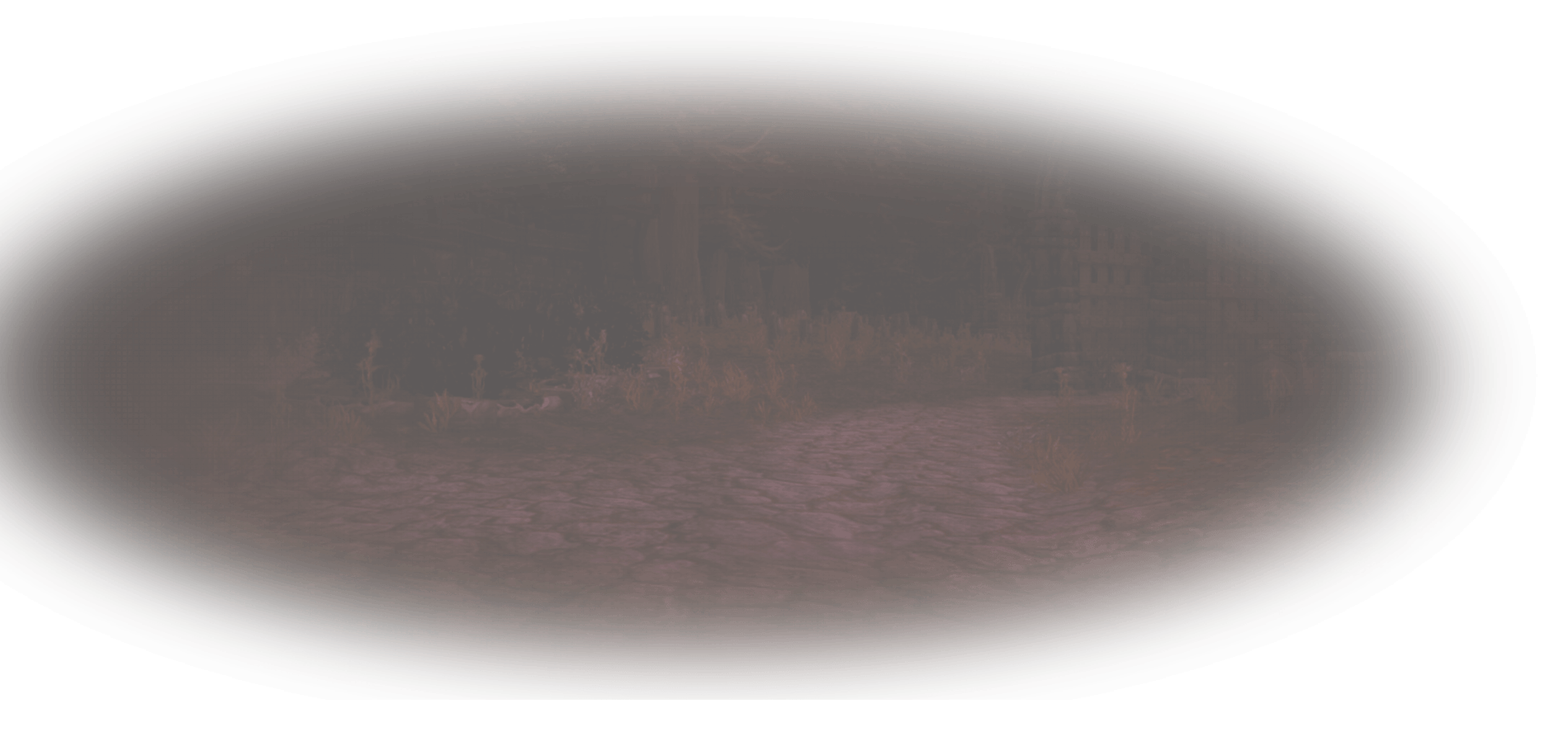
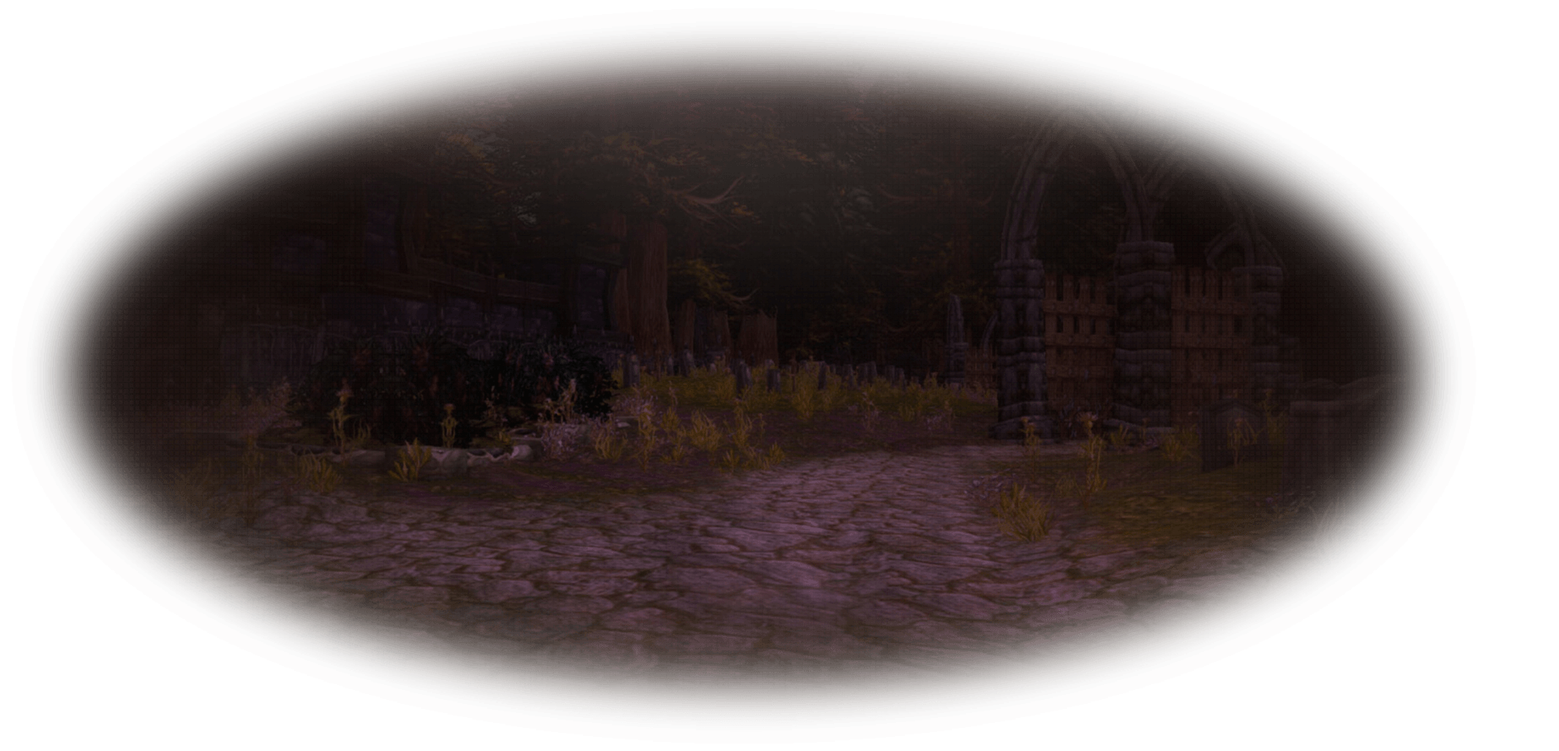
race backgrounds update

diff --git a/dist/index.html b/dist/index.html
@@ -1,6 +1,6 @@
 <!doctype html> <html class=no-js lang=zh-TW> <head> <meta charset=utf-8> <meta name=description content=快加入魔獸世界，進入一個充滿神話、魔法以及傳說冒險的世界。使用新手入門帳號使你可以在20級以下免費暢玩。現在正是加入魔獸世界的好機會。> <meta name=viewport content="width=device-width, initial-scale=1"> <title>《魔獸世界》新手網站</title> <meta property=og:locale content=zh_TW> <meta property=og:type content=website> <meta property=og:image content=http://media.blizzard.com/battle.net/logos/og-wow.png> <meta property=og:image content=http://media.blizzard.com/battle.net/logos/og-blizzard.png> <meta property=og:title content=《魔獸世界》新手網站> <meta property=og:description content=快加入魔獸世界，進入一個充滿神話、魔法以及傳說冒險的世界。使用新手入門帳號使你可以在20級以下免費暢玩。現在正是加入魔獸世界的好機會。>  <link rel=stylesheet href=styles/vendor.css> <link rel=stylesheet href=styles/main.css> <script src=scripts/vendor/modernizr.js></script> </head> <body> <!--[if lt IE 10]>
  <p class="browserupgrade">You are using an <strong>outdated</strong> browser. Please <a href="http://browsehappy.com/">upgrade your browser</a> to improve your experience.</p>
- <![endif]--> <div class=container> <div class=header> <figure class=nav-bg> <aside class="center alpha"> <ul class="nav nav-pills pull-right"> <li><a target=_blank href="http://tw.battle.net/wow/zh/shop/recruit-a-friend/">招兵買馬召集令</a></li> <li><a target=_blank href=https://tw.battle.net/shop/zh/product/world-of-warcraft-service-character-boost-asia>角色直升90級</a></li> <li><a target=_blank href=https://tw.battle.net/account/creation/tos.html>立即註冊</a></li> <li><a target=_blank class="download btn" href="http://tw.battle.net/zh/app/">立即下載</a></li> <li><a target=_blank class=icon href=https://www.facebook.com/WarcraftZHTW><i class="fa fa-facebook-official"></i></a></li> <li><a target=_blank class=icon href="https://www.youtube.com/watch?v=INaH20Fo1wg&amp;list=PL61C535E604B8BA4A"><i class="fa fa-youtube-play"></i></a></li> <li><a class="video-control icon" href=javascript:><i class="glyphicon glyphicon-pause"></i></a></li> <li><a class="volume-control icon" href=javascript:><i class="glyphicon glyphicon-volume-down"></i></a></li> </ul> <h1 class=text-muted><a href="http://tw.battle.net/wow/zh/" target=_blank><img alt=魔獸世界 src=images/logo.png></a></h1> </aside> </figure> </div> <section id=fullpage> <section id=visual class=section> <img class=video-preview src=images/kv.png> <section class=kv-container> <video class=video src=fonts/wow.mp4 width=100% height=60% poster=images/kv.png preload=true> <source type=video/mp4 src=fonts/wow.mp4> <source type=video/webm src=fonts/wow.webm> <source type=video/ogg src=fonts/wow.ogv> <object width=100% height=100% type=application/x-shockwave-flash data=fonts/flashmediaelement.swf> <param name=movie value=flashmediaelement.swf> <param name=flashvars value="controls=false&amp;poster=images/kv.png&amp;file=fonts/wow.mp4"> <img src=images/kv.png width=100% height=100% title="No video playback capabilities"> </object> </video> <figure class=video-overlay></figure> <aside class="center delta"> <h3>現在立即加入 《魔獸世界》 20 級以下 免費暢玩 <a class=download-button href="http://tw.battle.net/zh/app/" target=_blank><img alt=馬上下載 src=images/download-button.png></a></h3> </aside> </section> <img class=horizon src=images/horizon-left.png alt="horizon line"> </section> <section id=race class=section> <figure class=bg-mask></figure> <img class=horizon src=images/horizon-right.png alt="horizon line"> <img src=images/race/worgen-bg.png class=hide> <img src=images/race/draenei-bg.png class=hide> <img src=images/race/dwarf-bg.png class=hide> <img src=images/race/gnome-bg.png class=hide> <img src=images/race/human-bg.png class=hide> <img src=images/race/night-elf-bg.png class=hide> <img src=images/race/pandaria-bg.png class=hide> <img src=images/race/goblin-bg.png class=hide> <img src=images/race/blood-elf-bg.png class=hide> <img src=images/race/orc-bg.png class=hide> <img src=images/race/tauren-bg.png class=hide> <img src=images/race/troll-bg.png class=hide> <img src=images/race/undead-bg.png class=hide> <aside class=center> <aside class=section-title> <h3>種族介紹<p>特殊種族外貌 任你自由選擇</p></h3> </aside> <nav class="nav nav-alliance"> <ul> <li class="worgen active" data-race=worgen> <a href=javascript:><i></i></a> </li> <li class=draenei data-race=draenei> <a href=javascript:><i></i></a> </li> <li class=dwarf data-race=dwarf> <a href=javascript:><i></i></a> </li> <li class=gnome data-race=gnome> <a href=javascript:><i></i></a> </li> <li class=human data-race=human> <a href=javascript:><i></i></a> </li> <li class=night-elf data-race=night-elf> <a href=javascript:><i></i></a> </li> <li class=pandaria data-race=pandaria> <a href=javascript:><i></i></a> </li> </ul> </nav> <nav class="nav nav-horde"> <ul> <li class=goblin data-race=goblin> <a href=javascript:><i></i></a> </li> <li class=blood-elf data-race=blood-elf> <a href=javascript:><i></i></a> </li> <li class=orc data-race=orc> <a href=javascript:><i></i></a> </li> <li class=tauren data-race=tauren> <a href=javascript:><i></i></a> </li> <li class=troll data-race=troll> <a href=javascript:><i></i></a> </li> <li class=undead data-race=undead> <a href=javascript:><i></i></a> </li> <li class=pandaria data-race=horde-pandaria> <a href=javascript:><i></i></a> </li> </ul> </nav> <article> <ul> <li class="active worgen"> <aside> <figure> <img src=images/race/worgen.png alt=worgen> <h4> 狼人<sub class=alliance><i class=alliance-icon></i>聯盟</sub> <p>吉爾尼斯高牆後深受詛咒的人類</p></h4> </figure> <p class=race-description> 在葛雷邁恩之牆背後，難以想像的可怕詛咒早已在吉爾尼斯這個被孤立的人類國度中蔓延，平民一個個蛻變成了嗜血殘暴的狼人。 </p> </aside> </li> <li class=draenei> <aside> <figure> <img src=images/race/draenei.png alt=draenei> <h4> 德萊尼<sub class=alliance><i class=alliance-icon></i>聯盟</sub> <p>來自遙遠阿古斯世界的逃亡者</p></h4> </figure> <p class=race-description> 墮落泰坦－薩格拉斯早已認定這支種族是助祂毀滅一切的要素，最後成功讓埃雷達爾的兩位領導者效忠；不願沉淪的智者費倫，只好帶著其他族人流亡他鄉。 </p> </aside> </li> <li class=dwarf> <aside> <figure> <img src=images/race/dwarf.png alt=dwarf> <h4> 矮人<sub class=alliance><i class=alliance-icon></i>聯盟</sub> <p>從石頭蹦出來的古老種族 </p></h4> </figure> <p class=race-description> 勇敢的矮人是土靈的後裔。土靈是有生命的石頭生物，但得了稱做血肉詛咒的怪病，石頭外皮變成了柔軟的皮膚，於是他們自稱矮人，在卡茲莫丹雪峰中開拓出偉大的城市 - 鐵爐堡。 </p> </aside> </li> <li class=gnome> <aside> <figure> <img src=images/race/gnome.png alt=gnome> <h4> 地精<sub class=alliance><i class=alliance-icon></i>聯盟</sub> <p>不按牌理出牌的天才發明家</p></h4> </figure> <p class=race-description> 聰明、堅毅、卻怪里怪氣的地精，是有著樂天性格的機械工、工程師與技師。雖然是一支矮小的族群，他們所運用的智慧和雄心壯志令其他種族黯然失色。 </p> </aside> </li> <li class=human> <aside> <figure> <img src=images/race/human.png alt=human> <h4> 人類<sub class=alliance><i class=alliance-icon></i>聯盟</sub> <p>北裂境半巨人戰士的後裔 </p></h4> </figure> <p class=race-description> 謠傳人類是北裂境維酷人的後裔。當食人妖帝國崛起，原本散居的人類部族不得不統一聯手，力抗強敵；阿拉索王國及其首都 - 激流城邦，便因此建立。 </p> </aside> </li> <li class=night-elf> <aside> <figure> <img src=images/race/night-elf.png alt=night-elf> <h4> 夜精靈<sub class=alliance><i class=alliance-icon></i>聯盟</sub> <p>主導艾澤拉斯命運的關鍵 </p></h4> </figure> <p class=race-description> 在一萬多年前的古老戰役中，夜精靈擊退燃燒軍團的入侵。當燃燒軍團再次來襲，一場大戰更讓夜精靈付出慘痛代價，即便最後戰勝，夜精靈的世界已永遠改變。 </p> </aside> </li> <li class=pandaria> <aside> <figure> <img src=images/race/pandaria.png alt=pandaria> <h4> 熊貓人<sub class=alliance><i class=alliance-icon></i>聯盟</sub> <p>籠罩在傳說中，謎一般的神秘種族 </p></h4> </figure> <p class=race-description> 熊貓人早在人類帝國形成前，就已建立起繁榮數千年的帝國。罕為人知的神祕熊貓人，對其他種族而言一直是個謎團。 </p> </aside> </li> <li class=goblin> <aside> <figure> <img src=images/race/goblin.png alt=goblin> <h4> 哥布林<sub class=horde><i class=horde-icon></i>部落</sub> <p>精明狡詐，左右逢源的一流貿易商 </p></h4> </figure> <p class=race-description> 原是凱贊島食人妖的奴隸，哥布林被迫在火山坑道挖掘卡迦邁礦石供巫毒儀式使用，但卡迦邁礦石也對這些奴隸產生奇效，讓哥布林一個個具備前所未有的聰明狡詐與驚人智力。 </p> </aside> </li> <li class=blood-elf> <aside> <figure> <img src=images/race/blood-elf.png alt=blood-elf> <h4> 血精靈<sub class=horde><i class=horde-icon></i>部落</sub> <p>沉醉於秘法力量的高貴精靈 </p></h4> </figure> <p class=race-description> 當高等精靈的魔法之泉－太陽之井遭受汙染後，王子凱爾薩斯‧逐日者忍痛將其摧毀，並命名僅存的族人為血精靈，一同遠走外域尋求解決之道。 </p> </aside> </li> <li class=orc> <aside> <figure> <img src=images/race/orc.png alt=orc> <h4> 獸人<sub class=horde><i class=horde-icon></i>部落</sub> <p>被惡魔之血影響的外域異軍</p></h4> </figure> <p class=race-description> 為了奴役這個強大的民族，燃燒軍團的惡魔領主基爾加丹承諾賦予力量，引誘大部份獸人酋長喝下惡魔之血；沒想到這讓獸人棕色皮膚轉綠，更讓他們受到控制，家園也走向枯萎和死亡… </p> </aside> </li> <li class=tauren> <aside> <figure> <img src=images/race/tauren.png alt=tauren> <h4> 牛頭人<sub class=horde><i class=horde-icon></i>部落</sub> <p>散居貧瘠之地的遊牧民族 </p></h4> </figure> <p class=race-description> 卡林多的牛頭人愛好和平，在大地之母的指示下，致力維護大自然的平衡。雖然分裂成不同部族，但面對敵人時卻團結一致。牛頭人大酋長凱恩．血蹄某次與獸人部落偶遇，自此改變了牛頭人的命運。 </p> </aside> </li> <li class=troll> <aside> <figure> <img src=images/race/troll.png alt=troll> <h4> 食人妖<sub class=horde><i class=horde-icon></i>部落</sub> <p>崇尚黑暗儀式的部族 </p></h4> </figure> <p class=race-description> 以殘忍和黑暗的神秘宗教而惡名昭彰，艾澤拉斯的食人妖向來對其他種族心懷恨意。當部落大酋長索爾抵達食人妖南海島時，暗矛食人妖放棄成見，與索爾一同合作，最後成為部落的一員。 </p> </aside> </li> <li class=undead> <aside> <figure> <img src=images/race/undead.png alt=undead> <h4> 不死族<sub class=horde><i class=horde-icon></i>部落</sub> <p>擺脫巫妖王束縛的亡者 </p></h4> </figure> <p class=race-description> 巫妖王在羅德隆屠城後，多數人死後成為天譴軍的爪牙，但部分不死族最終叛逃，並在黑暗女王-希瓦娜斯‧風行者麾下集結；他們自稱「被遺忘者」，更在羅德隆廢墟下建立首都－幽暗城。 </p> </aside> </li> <li class=horde-pandaria> <aside> <figure> <img src=images/race/pandaria.png alt=pandaria> <h4> 熊貓人<sub class=horde><i class=horde-icon></i>部落</sub> <p>籠罩在傳說中，謎一般的神秘種族 </p></h4> </figure> <p class=race-description> 熊貓人早在人類帝國形成前，就已建立起繁榮數千年的帝國。罕為人知的神祕熊貓人，對其他種族而言一直是個謎團。 </p> </aside> </li> </ul> </article> </aside> </section> <section id=classes class=section> <img class=horizon src=images/horizon-left.png alt="horizon line"> <aside class=center> <aside class=section-title> <aside class=section-title> <h3>職業介紹<p>各種獨特職業 挑戰各種無限可能 </p></h3> </aside> <nav class="nav nav-classes"> <ul> <li class="worrior active" data-classes=worrior> <a href=javascript:><i></i>戰士</a><b></b> </li> <li class=warlock data-classes=warlock> <a href=javascript:><i></i>術士</a><b></b> </li> <li class=shaman data-classes=shaman> <a href=javascript:><i></i>薩滿</a><b></b> </li> <li class=rogue data-classes=rogue> <a href=javascript:><i></i>盜賊</a><b></b> </li> <li class=priest data-classes=priest> <a href=javascript:><i></i>牧師</a><b></b> </li> <li class=monk data-classes=monk> <a href=javascript:><i></i>武僧</a><b></b> </li> <li class=paladin data-classes=paladin> <a href=javascript:><i></i>聖騎士</a><b></b> </li> <li class=mage data-classes=mage> <a href=javascript:><i></i>法師</a><b></b> </li> <li class=hunter data-classes=hunter> <a href=javascript:><i></i>獵人</a><b></b> </li> <li class=druid data-classes=druid> <a href=javascript:><i></i>德魯伊</a><b></b> </li> <li class=death-knight data-classes=death-knight> <a href=javascript:><i></i>死亡騎士</a><b></b> </li> </ul> </nav> <article> <ul> <li class="active worrior"> <aside> <figure> <img src=images/classes/worrior.png alt=worrior> <h4> 戰士 <p>以肉身作為團隊護盾的戰爭之王 </p> <p class=classes-description> 以盾牌防守封鎖敵人，或是以致命武器近身攻擊，戰士集力量、統御力和對武器護甲的專精於一身。 </p> </h4> </figure> </aside> </li> <li class=warlock> <aside> <figure> <img src=images/classes/warlock.png alt=warlock> <h4> 術士 <p>奴役恐怖惡魔的施法者</p> <p class=classes-description> 深知惡魔力量的術士能用烈焰燃燒遠方的敵人，或以腐蝕疾病和竊取生命力的詛咒來加以折磨。 </p> </h4> </figure> </aside> </li> <li class=shaman> <aside> <figure> <img src=images/classes/shaman.png alt=shaman> <h4> 薩滿 <p>協調元素力量作戰的行醫者</p> <p class=classes-description> 足智多謀的薩滿身懷絕技，近距或遠程攻擊樣樣精通，更會善用元素圖騰來協助團隊取得勝利。 </p> </h4> </figure> </aside> </li> <li class=rogue> <aside> <figure> <img src=images/classes/rogue.png alt=rogue> <h4> 盜賊 <p>隱匿的高手 直取要害的刺客</p> <p class=classes-description> 潛藏在暗處的致命刺客，總是在獵物背後潛行，直取要害，盜賊在受害者倒地之前，早已消失無影。 </p> </h4> </figure> </aside> </li> <li class=priest> <aside> <figure> <img src=images/classes/priest.png alt=priest> <h4> 牧師 <p>以堅定不移的信仰治療眾生的聖人</p> <p class=classes-description> 為其信仰獻身，牧師遠離神殿的範圍與聖地的撫慰，藉由治療群眾來表達他們的堅定信仰。 </p> </h4> </figure> </aside> </li> <li class=monk> <aside> <figure> <img src=images/classes/monk.png alt=monk> <h4> 武僧 <p>以酒馭氣 攻防合一的武功大師</p> <p class=classes-description> 武僧運用體內的真氣來強化力量，甚至在治療同伴的同時傷害他們身邊的敵人。 </p> </h4> </figure> </aside> </li> <li class=paladin> <aside> <figure> <img src=images/classes/paladin.png alt=paladin> <h4> 聖騎士 <p>引導聖光驅散黑暗的高貴勇者</p> <p class=classes-description> 聖光的庇佑讓這些穿戴重裝甲、堅信正義的聖騎士傷口快速痊癒，甚至能復活死者。 </p> </h4> </figure> </aside> </li> <li class=mage> <aside> <figure> <img src=images/classes/mage.png alt=mage> <h4> 法師 <p>天賦異稟 掌握秘法精髓的施法者</p> <p class=classes-description> 雖然不善近戰，有智慧的法師會謹慎運用強大破壞力的法術，在敵人靠近之前將之擊倒。 </p> </h4> </figure> </aside> </li> <li class=hunter> <aside> <figure> <img src=images/classes/hunter.png alt=hunter> <h4> 獵人 <p>召喚猛獸作戰的神準射手</p> <p class=classes-description> 對自然環境瞭若指掌，獵人不僅能從容在樹林間穿梭，也能在敵人必經之路上埋伏陷阱，出奇制勝。 </p> </h4> </figure> </aside> </li> <li class=druid> <aside> <figure> <img src=images/classes/druid.png alt=druid> <h4> 德魯伊 <p>平衡大自然原生能量的生靈守護者</p> <p class=classes-description> 德魯伊能針對不同情勢變換形態來進行治療、近身防禦或輸出大量傷害，而且每種變形都將有獨特效果。 </p> </h4> </figure> </aside> </li> <li class=death-knight> <aside> <figure> <img src=images/classes/death-knight.png alt=death-knight> <h4> 死亡騎士 <p>操縱符文力量的不死英靈</p> <p class=classes-description> 擅長近距離的與敵人交戰，死亡騎士運用符文和黑魔法增強他們的武器，使敵人無法招架並用邪惡力量加以重創。 </p> </h4> </figure> </aside> </li> </ul> </article> </aside> </aside> </section> <section id=features class=section> <aside class=center> <aside class=section-title> <h3>遊戲特色 <p>豐富遊戲內容 體驗無窮樂趣</p></h3> </aside> </aside> <article> <aside class=center> <p class=feature-description> 艾澤拉斯大陸到處都有神秘場所、潛伏的威脅和一觸即發的衝突。雖然雙方陣營在爭奪資源的過程中傷亡難免，無盡的鬥爭也將帶給你無數贏得榮耀的機會。無論在正規戰場或在野外與敵方單挑，你都將獲得更多實戰經驗，並換取更高等的裝備。除了和別人打個你死我活，你也可以在農地或自己的堡壘中輕鬆一下，或是用戰寵與好友來場友誼賽。不管你想怎麼玩，魔獸世界都會給你最棒的遊戲體驗。 </p> </aside> </article> </section> <section id=footer class=section> <section class=footer> <aside class=center> <a target=_blank href="http://tw.battle.net/wow/zh/"><img src=images/blizzard.png alt=blizzard></a> <p class=terms>© 2015 美商暴雪娛樂股份有限公司（Blizzard Entertainment, Inc.）版權所有。魔獸世界、魔獸爭霸、Battle.net、魔獸及Blizzard Entertainment均為美商暴雪娛樂股份有限公司 (Blizzard Entertainment, Inc.) 在美國和 / 或其他國家的商標或註冊商標。其他所有在此提及的商標皆為各持有者之財產。需註冊 Battle.net 帳號，您可前往 <a href="http://tw.battle.net/zh/" target=_blank>tw.battle.net</a> 免費進行註冊。</p> <a target=_blank href=http://www.gamerating.org.tw/gsgi_way.php><img src=images/pg-15.png class=pg-15></a> </aside> <img class=horizon src=images/horizon-right.png alt="horizon line"> </section> </section> </section> </div>  <script>
+ <![endif]--> <div class=container> <div class=header> <figure class=nav-bg> <aside class="center alpha"> <ul class="nav nav-pills pull-right"> <li><a target=_blank href="http://tw.battle.net/wow/zh/shop/recruit-a-friend/">招兵買馬召集令</a></li> <li><a target=_blank href=https://tw.battle.net/shop/zh/product/world-of-warcraft-service-character-boost-asia>角色直升90級</a></li> <li><a target=_blank href=https://tw.battle.net/account/creation/tos.html>立即註冊</a></li> <li><a target=_blank class="download btn" href="http://tw.battle.net/zh/app/">立即下載</a></li> <li><a target=_blank class=icon href=https://www.facebook.com/WarcraftZHTW><i class="fa fa-facebook-official"></i></a></li> <li><a target=_blank class=icon href="https://www.youtube.com/watch?v=INaH20Fo1wg&amp;list=PL61C535E604B8BA4A"><i class="fa fa-youtube-play"></i></a></li> <li><a class="video-control icon" href=javascript:><i class="glyphicon glyphicon-pause"></i></a></li> <li><a class="volume-control icon" href=javascript:><i class="glyphicon glyphicon-volume-down"></i></a></li> </ul> <h1 class=text-muted><a href="http://tw.battle.net/wow/zh/" target=_blank><img alt=魔獸世界 src=images/logo.png></a></h1> </aside> </figure> </div> <section id=fullpage> <section id=visual class=section> <img class=video-preview src=images/kv.png> <section class=kv-container> <video class=video src=fonts/wow.mp4 width=100% height=60% poster=images/kv.png preload=true> <source type=video/mp4 src=fonts/wow.mp4> <source type=video/webm src=fonts/wow.webm> <source type=video/ogg src=fonts/wow.ogv> <object width=100% height=100% type=application/x-shockwave-flash data=fonts/flashmediaelement.swf> <param name=movie value=flashmediaelement.swf> <param name=flashvars value="controls=false&amp;poster=images/kv.png&amp;file=fonts/wow.mp4"> <img src=images/kv.png width=100% height=100% title="No video playback capabilities"> </object> </video> <figure class=video-overlay></figure> <aside class="center delta"> <h3>現在立即加入 《魔獸世界》 20 級以下 免費暢玩 <a class=download-button href="http://tw.battle.net/zh/app/" target=_blank><img alt=馬上下載 src=images/download-button.png></a></h3> </aside> </section> </section> <section id=race class=section> <figure class=bg-mask></figure> <img class=horizon src=images/horizon-right.png alt="horizon line"> <img src=images/race/worgen-bg.png class=hide> <img src=images/race/draenei-bg.png class=hide> <img src=images/race/dwarf-bg.png class=hide> <img src=images/race/gnome-bg.png class=hide> <img src=images/race/human-bg.png class=hide> <img src=images/race/night-elf-bg.png class=hide> <img src=images/race/pandaria-bg.png class=hide> <img src=images/race/goblin-bg.png class=hide> <img src=images/race/blood-elf-bg.png class=hide> <img src=images/race/orc-bg.png class=hide> <img src=images/race/tauren-bg.png class=hide> <img src=images/race/troll-bg.png class=hide> <img src=images/race/undead-bg.png class=hide> <aside class=center> <aside class=section-title> <h3>種族介紹<p>特殊種族外貌 任你自由選擇</p></h3> </aside> <nav class="nav nav-alliance"> <ul> <li class="worgen active" data-race=worgen> <a href=javascript:><i></i></a> </li> <li class=draenei data-race=draenei> <a href=javascript:><i></i></a> </li> <li class=dwarf data-race=dwarf> <a href=javascript:><i></i></a> </li> <li class=gnome data-race=gnome> <a href=javascript:><i></i></a> </li> <li class=human data-race=human> <a href=javascript:><i></i></a> </li> <li class=night-elf data-race=night-elf> <a href=javascript:><i></i></a> </li> <li class=pandaria data-race=pandaria> <a href=javascript:><i></i></a> </li> </ul> </nav> <nav class="nav nav-horde"> <ul> <li class=goblin data-race=goblin> <a href=javascript:><i></i></a> </li> <li class=blood-elf data-race=blood-elf> <a href=javascript:><i></i></a> </li> <li class=orc data-race=orc> <a href=javascript:><i></i></a> </li> <li class=tauren data-race=tauren> <a href=javascript:><i></i></a> </li> <li class=troll data-race=troll> <a href=javascript:><i></i></a> </li> <li class=undead data-race=undead> <a href=javascript:><i></i></a> </li> <li class=pandaria data-race=horde-pandaria> <a href=javascript:><i></i></a> </li> </ul> </nav> <article> <ul> <li class="active worgen"> <aside> <figure> <img src=images/race/worgen.png alt=worgen> <h4> 狼人<sub class=alliance><i class=alliance-icon></i>聯盟</sub> <p>吉爾尼斯高牆後深受詛咒的人類</p></h4> </figure> <p class=race-description> 在葛雷邁恩之牆背後，難以想像的可怕詛咒早已在吉爾尼斯這個被孤立的人類國度中蔓延，平民一個個蛻變成了嗜血殘暴的狼人。 </p> </aside> </li> <li class=draenei> <aside> <figure> <img src=images/race/draenei.png alt=draenei> <h4> 德萊尼<sub class=alliance><i class=alliance-icon></i>聯盟</sub> <p>來自遙遠阿古斯世界的逃亡者</p></h4> </figure> <p class=race-description> 墮落泰坦－薩格拉斯早已認定這支種族是助祂毀滅一切的要素，最後成功讓埃雷達爾的兩位領導者效忠；不願沉淪的智者費倫，只好帶著其他族人流亡他鄉。 </p> </aside> </li> <li class=dwarf> <aside> <figure> <img src=images/race/dwarf.png alt=dwarf> <h4> 矮人<sub class=alliance><i class=alliance-icon></i>聯盟</sub> <p>從石頭蹦出來的古老種族 </p></h4> </figure> <p class=race-description> 勇敢的矮人是土靈的後裔。土靈是有生命的石頭生物，但得了稱做血肉詛咒的怪病，石頭外皮變成了柔軟的皮膚，於是他們自稱矮人，在卡茲莫丹雪峰中開拓出偉大的城市 - 鐵爐堡。 </p> </aside> </li> <li class=gnome> <aside> <figure> <img src=images/race/gnome.png alt=gnome> <h4> 地精<sub class=alliance><i class=alliance-icon></i>聯盟</sub> <p>不按牌理出牌的天才發明家</p></h4> </figure> <p class=race-description> 聰明、堅毅、卻怪里怪氣的地精，是有著樂天性格的機械工、工程師與技師。雖然是一支矮小的族群，他們所運用的智慧和雄心壯志令其他種族黯然失色。 </p> </aside> </li> <li class=human> <aside> <figure> <img src=images/race/human.png alt=human> <h4> 人類<sub class=alliance><i class=alliance-icon></i>聯盟</sub> <p>北裂境半巨人戰士的後裔 </p></h4> </figure> <p class=race-description> 謠傳人類是北裂境維酷人的後裔。當食人妖帝國崛起，原本散居的人類部族不得不統一聯手，力抗強敵；阿拉索王國及其首都 - 激流城邦，便因此建立。 </p> </aside> </li> <li class=night-elf> <aside> <figure> <img src=images/race/night-elf.png alt=night-elf> <h4> 夜精靈<sub class=alliance><i class=alliance-icon></i>聯盟</sub> <p>主導艾澤拉斯命運的關鍵 </p></h4> </figure> <p class=race-description> 在一萬多年前的古老戰役中，夜精靈擊退燃燒軍團的入侵。當燃燒軍團再次來襲，一場大戰更讓夜精靈付出慘痛代價，即便最後戰勝，夜精靈的世界已永遠改變。 </p> </aside> </li> <li class=pandaria> <aside> <figure> <img src=images/race/pandaria.png alt=pandaria> <h4> 熊貓人<sub class=alliance><i class=alliance-icon></i>聯盟</sub> <p>籠罩在傳說中，謎一般的神秘種族 </p></h4> </figure> <p class=race-description> 熊貓人早在人類帝國形成前，就已建立起繁榮數千年的帝國。罕為人知的神祕熊貓人，對其他種族而言一直是個謎團。 </p> </aside> </li> <li class=goblin> <aside> <figure> <img src=images/race/goblin.png alt=goblin> <h4> 哥布林<sub class=horde><i class=horde-icon></i>部落</sub> <p>精明狡詐，左右逢源的一流貿易商 </p></h4> </figure> <p class=race-description> 原是凱贊島食人妖的奴隸，哥布林被迫在火山坑道挖掘卡迦邁礦石供巫毒儀式使用，但卡迦邁礦石也對這些奴隸產生奇效，讓哥布林一個個具備前所未有的聰明狡詐與驚人智力。 </p> </aside> </li> <li class=blood-elf> <aside> <figure> <img src=images/race/blood-elf.png alt=blood-elf> <h4> 血精靈<sub class=horde><i class=horde-icon></i>部落</sub> <p>沉醉於秘法力量的高貴精靈 </p></h4> </figure> <p class=race-description> 當高等精靈的魔法之泉－太陽之井遭受汙染後，王子凱爾薩斯‧逐日者忍痛將其摧毀，並命名僅存的族人為血精靈，一同遠走外域尋求解決之道。 </p> </aside> </li> <li class=orc> <aside> <figure> <img src=images/race/orc.png alt=orc> <h4> 獸人<sub class=horde><i class=horde-icon></i>部落</sub> <p>被惡魔之血影響的外域異軍</p></h4> </figure> <p class=race-description> 為了奴役這個強大的民族，燃燒軍團的惡魔領主基爾加丹承諾賦予力量，引誘大部份獸人酋長喝下惡魔之血；沒想到這讓獸人棕色皮膚轉綠，更讓他們受到控制，家園也走向枯萎和死亡… </p> </aside> </li> <li class=tauren> <aside> <figure> <img src=images/race/tauren.png alt=tauren> <h4> 牛頭人<sub class=horde><i class=horde-icon></i>部落</sub> <p>散居貧瘠之地的遊牧民族 </p></h4> </figure> <p class=race-description> 卡林多的牛頭人愛好和平，在大地之母的指示下，致力維護大自然的平衡。雖然分裂成不同部族，但面對敵人時卻團結一致。牛頭人大酋長凱恩．血蹄某次與獸人部落偶遇，自此改變了牛頭人的命運。 </p> </aside> </li> <li class=troll> <aside> <figure> <img src=images/race/troll.png alt=troll> <h4> 食人妖<sub class=horde><i class=horde-icon></i>部落</sub> <p>崇尚黑暗儀式的部族 </p></h4> </figure> <p class=race-description> 以殘忍和黑暗的神秘宗教而惡名昭彰，艾澤拉斯的食人妖向來對其他種族心懷恨意。當部落大酋長索爾抵達食人妖南海島時，暗矛食人妖放棄成見，與索爾一同合作，最後成為部落的一員。 </p> </aside> </li> <li class=undead> <aside> <figure> <img src=images/race/undead.png alt=undead> <h4> 不死族<sub class=horde><i class=horde-icon></i>部落</sub> <p>擺脫巫妖王束縛的亡者 </p></h4> </figure> <p class=race-description> 巫妖王在羅德隆屠城後，多數人死後成為天譴軍的爪牙，但部分不死族最終叛逃，並在黑暗女王-希瓦娜斯‧風行者麾下集結；他們自稱「被遺忘者」，更在羅德隆廢墟下建立首都－幽暗城。 </p> </aside> </li> <li class=horde-pandaria> <aside> <figure> <img src=images/race/pandaria.png alt=pandaria> <h4> 熊貓人<sub class=horde><i class=horde-icon></i>部落</sub> <p>籠罩在傳說中，謎一般的神秘種族 </p></h4> </figure> <p class=race-description> 熊貓人早在人類帝國形成前，就已建立起繁榮數千年的帝國。罕為人知的神祕熊貓人，對其他種族而言一直是個謎團。 </p> </aside> </li> </ul> </article> </aside> </section> <section id=classes class=section> <img class=horizon src=images/horizon-left.png alt="horizon line"> <aside class=center> <aside class=section-title> <aside class=section-title> <h3>職業介紹<p>各種獨特職業 挑戰各種無限可能 </p></h3> </aside> <nav class="nav nav-classes"> <ul> <li class="worrior active" data-classes=worrior> <a href=javascript:><i></i>戰士</a><b></b> </li> <li class=warlock data-classes=warlock> <a href=javascript:><i></i>術士</a><b></b> </li> <li class=shaman data-classes=shaman> <a href=javascript:><i></i>薩滿</a><b></b> </li> <li class=rogue data-classes=rogue> <a href=javascript:><i></i>盜賊</a><b></b> </li> <li class=priest data-classes=priest> <a href=javascript:><i></i>牧師</a><b></b> </li> <li class=monk data-classes=monk> <a href=javascript:><i></i>武僧</a><b></b> </li> <li class=paladin data-classes=paladin> <a href=javascript:><i></i>聖騎士</a><b></b> </li> <li class=mage data-classes=mage> <a href=javascript:><i></i>法師</a><b></b> </li> <li class=hunter data-classes=hunter> <a href=javascript:><i></i>獵人</a><b></b> </li> <li class=druid data-classes=druid> <a href=javascript:><i></i>德魯伊</a><b></b> </li> <li class=death-knight data-classes=death-knight> <a href=javascript:><i></i>死亡騎士</a><b></b> </li> </ul> </nav> <article> <ul> <li class="active worrior"> <aside> <figure> <img src=images/classes/worrior.png alt=worrior> <h4> 戰士 <p>以肉身作為團隊護盾的戰爭之王 </p> <p class=classes-description> 以盾牌防守封鎖敵人，或是以致命武器近身攻擊，戰士集力量、統御力和對武器護甲的專精於一身。 </p> </h4> </figure> </aside> </li> <li class=warlock> <aside> <figure> <img src=images/classes/warlock.png alt=warlock> <h4> 術士 <p>奴役恐怖惡魔的施法者</p> <p class=classes-description> 深知惡魔力量的術士能用烈焰燃燒遠方的敵人，或以腐蝕疾病和竊取生命力的詛咒來加以折磨。 </p> </h4> </figure> </aside> </li> <li class=shaman> <aside> <figure> <img src=images/classes/shaman.png alt=shaman> <h4> 薩滿 <p>協調元素力量作戰的行醫者</p> <p class=classes-description> 足智多謀的薩滿身懷絕技，近距或遠程攻擊樣樣精通，更會善用元素圖騰來協助團隊取得勝利。 </p> </h4> </figure> </aside> </li> <li class=rogue> <aside> <figure> <img src=images/classes/rogue.png alt=rogue> <h4> 盜賊 <p>隱匿的高手 直取要害的刺客</p> <p class=classes-description> 潛藏在暗處的致命刺客，總是在獵物背後潛行，直取要害，盜賊在受害者倒地之前，早已消失無影。 </p> </h4> </figure> </aside> </li> <li class=priest> <aside> <figure> <img src=images/classes/priest.png alt=priest> <h4> 牧師 <p>以堅定不移的信仰治療眾生的聖人</p> <p class=classes-description> 為其信仰獻身，牧師遠離神殿的範圍與聖地的撫慰，藉由治療群眾來表達他們的堅定信仰。 </p> </h4> </figure> </aside> </li> <li class=monk> <aside> <figure> <img src=images/classes/monk.png alt=monk> <h4> 武僧 <p>以酒馭氣 攻防合一的武功大師</p> <p class=classes-description> 武僧運用體內的真氣來強化力量，甚至在治療同伴的同時傷害他們身邊的敵人。 </p> </h4> </figure> </aside> </li> <li class=paladin> <aside> <figure> <img src=images/classes/paladin.png alt=paladin> <h4> 聖騎士 <p>引導聖光驅散黑暗的高貴勇者</p> <p class=classes-description> 聖光的庇佑讓這些穿戴重裝甲、堅信正義的聖騎士傷口快速痊癒，甚至能復活死者。 </p> </h4> </figure> </aside> </li> <li class=mage> <aside> <figure> <img src=images/classes/mage.png alt=mage> <h4> 法師 <p>天賦異稟 掌握秘法精髓的施法者</p> <p class=classes-description> 雖然不善近戰，有智慧的法師會謹慎運用強大破壞力的法術，在敵人靠近之前將之擊倒。 </p> </h4> </figure> </aside> </li> <li class=hunter> <aside> <figure> <img src=images/classes/hunter.png alt=hunter> <h4> 獵人 <p>召喚猛獸作戰的神準射手</p> <p class=classes-description> 對自然環境瞭若指掌，獵人不僅能從容在樹林間穿梭，也能在敵人必經之路上埋伏陷阱，出奇制勝。 </p> </h4> </figure> </aside> </li> <li class=druid> <aside> <figure> <img src=images/classes/druid.png alt=druid> <h4> 德魯伊 <p>平衡大自然原生能量的生靈守護者</p> <p class=classes-description> 德魯伊能針對不同情勢變換形態來進行治療、近身防禦或輸出大量傷害，而且每種變形都將有獨特效果。 </p> </h4> </figure> </aside> </li> <li class=death-knight> <aside> <figure> <img src=images/classes/death-knight.png alt=death-knight> <h4> 死亡騎士 <p>操縱符文力量的不死英靈</p> <p class=classes-description> 擅長近距離的與敵人交戰，死亡騎士運用符文和黑魔法增強他們的武器，使敵人無法招架並用邪惡力量加以重創。 </p> </h4> </figure> </aside> </li> </ul> </article> </aside> </aside> </section> <section id=features class=section> <aside class=center> <aside class=section-title> <h3>遊戲特色 <p>豐富遊戲內容 體驗無窮樂趣</p></h3> </aside> </aside> <article> <aside class=center> <p class=feature-description> 艾澤拉斯大陸到處都有神秘場所、潛伏的威脅和一觸即發的衝突。雖然雙方陣營在爭奪資源的過程中傷亡難免，無盡的鬥爭也將帶給你無數贏得榮耀的機會。無論在正規戰場或在野外與敵方單挑，你都將獲得更多實戰經驗，並換取更高等的裝備。除了和別人打個你死我活，你也可以在農地或自己的堡壘中輕鬆一下，或是用戰寵與好友來場友誼賽。不管你想怎麼玩，魔獸世界都會給你最棒的遊戲體驗。 </p> </aside> </article> </section> <section id=footer class=section> <section class=footer> <aside class=center> <a target=_blank href="http://tw.battle.net/wow/zh/"><img src=images/blizzard.png alt=blizzard></a> <p class=terms>© 2015 美商暴雪娛樂股份有限公司（Blizzard Entertainment, Inc.）版權所有。魔獸世界、魔獸爭霸、Battle.net、魔獸及Blizzard Entertainment均為美商暴雪娛樂股份有限公司 (Blizzard Entertainment, Inc.) 在美國和 / 或其他國家的商標或註冊商標。其他所有在此提及的商標皆為各持有者之財產。需註冊 Battle.net 帳號，您可前往 <a href="http://tw.battle.net/zh/" target=_blank>tw.battle.net</a> 免費進行註冊。</p> <a target=_blank href=http://www.gamerating.org.tw/gsgi_way.php><img src=images/pg-15.png class=pg-15></a> </aside> <img class=horizon src=images/horizon-right.png alt="horizon line"> </section> </section> </section> </div>  <script>
       (function(b,o,i,l,e,r){b.GoogleAnalyticsObject=l;b[l]||(b[l]=
       function(){(b[l].q=b[l].q||[]).push(arguments)});b[l].l=+new Date;
       e=o.createElement(i);r=o.getElementsByTagName(i)[0];

diff --git a/app/index.html b/app/index.html
@@ -74,7 +74,6 @@
                 <h3>現在立即加入 《魔獸世界》 20 級以下 免費暢玩 <a class="download-button" href="http://tw.battle.net/zh/app/" target="_blank"><img alt="馬上下載" src="images/download-button.png"></a></h3>
             </aside>
           </section>
-          <img class="horizon" src="images/horizon-left.png" alt="horizon line" />
         </section>
         <section id="race" class="section">
           <figure class="bg-mask"></figure>
